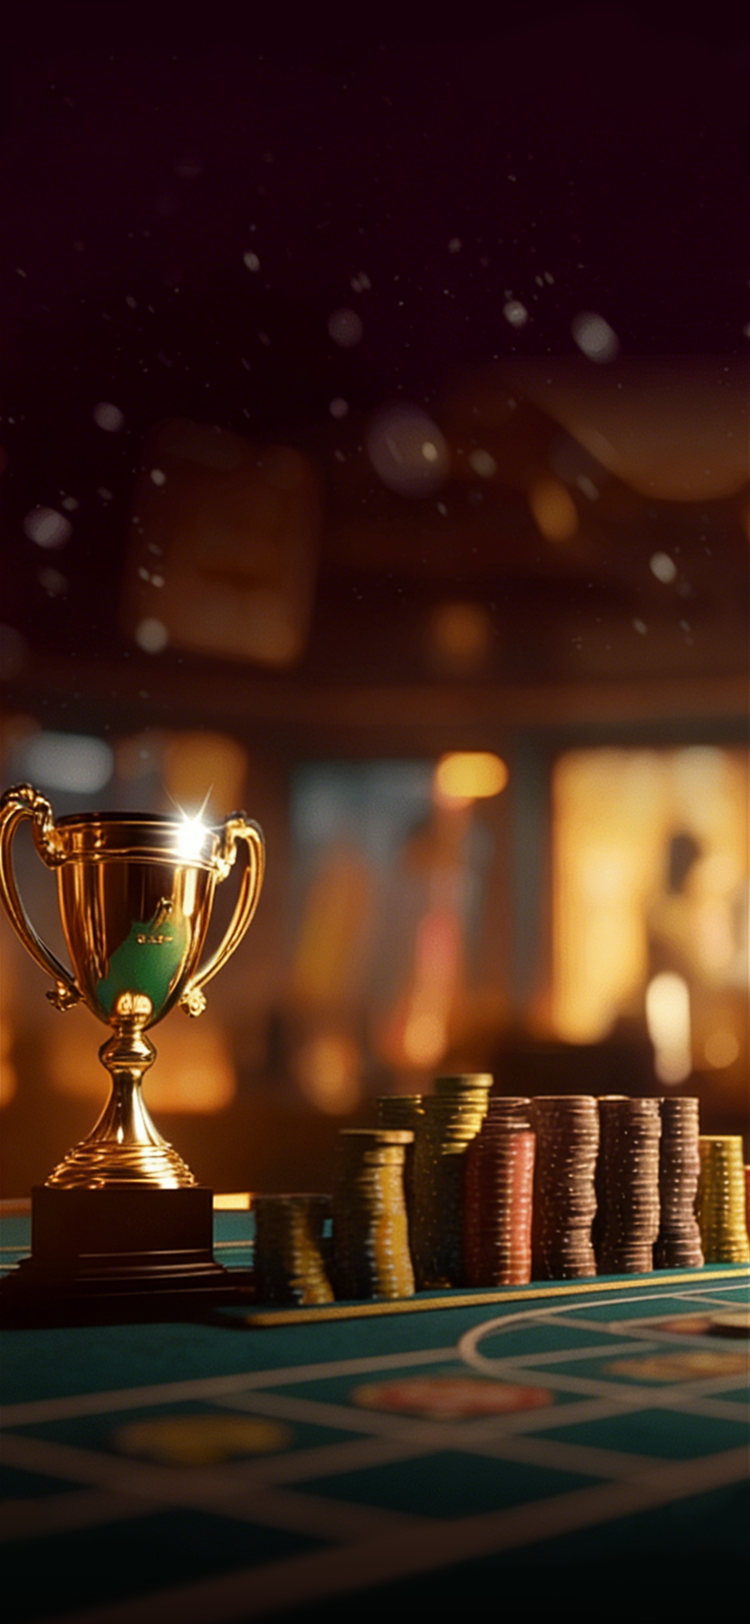
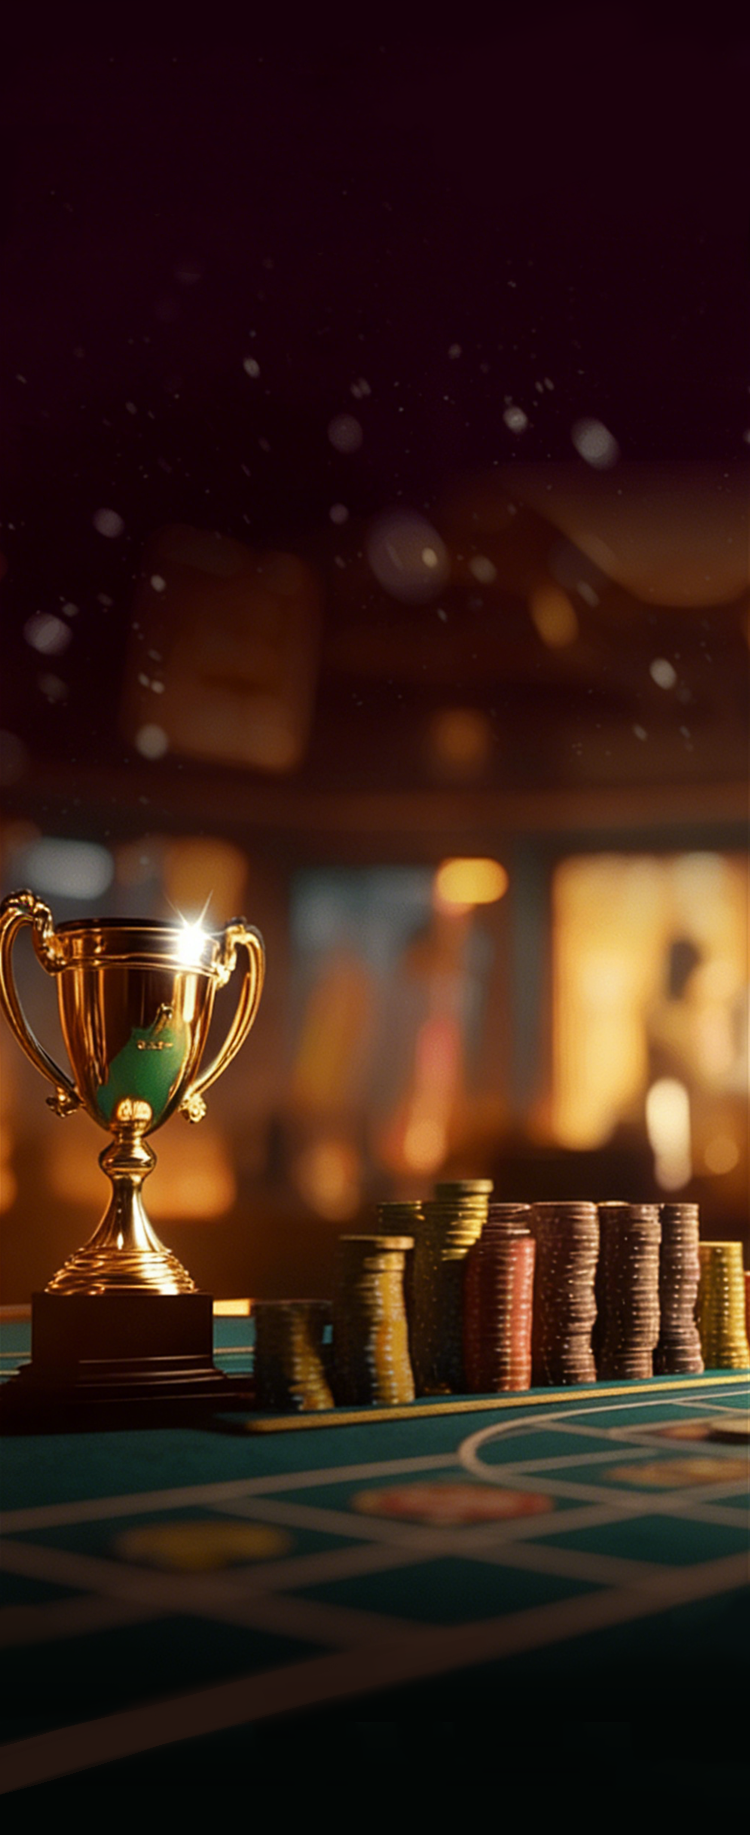
保存代码

diff --git a/assets/Main/Update.js b/assets/Main/Update.js
@@ -25,11 +25,11 @@ cc.Class({
 
         this.or_sprite_pos = cc.v2(326, -160);
         this.btn_facebookLogin_pos = cc.v2(209, -274);
-        this.btn_guestLogin_pos = cc.v2(326, -225);
+        this.btn_guestLogin_pos = cc.v2(0, -225);
 
         this.or_sprite_pos1 = cc.v2(326, -76);
         this.btn_facebookLogin_pos1 = cc.v2(209, -144);
-        this.btn_guestLogin_pos1 = cc.v2(326, -144);
+        this.btn_guestLogin_pos1 = cc.v2(0, -144);
 
         this.protoFiles = [
             "proto/baseproto",
@@ -77,7 +77,7 @@ cc.Class({
 
         CommonFun.getInstance().behaviorReporting(GlobalCfg.BEHAVIOR_TYPE.SHOW_UPDATE_VIEW);
 
-        CommonFun.getInstance().initVerticalAcc();
+        CommonFun.getInstance().initHorizontalAcc();
 
         CommonFun.getInstance().hidProgress();
 
@@ -949,7 +949,7 @@ cc.Class({
 
         if (GlobalCfg.CHANNEL_INFO == "2023" || GlobalCfg.UNUSE_FACEBOOK > 0) {
             this.node_btn_facebookLogin.active = false;
-            this.node_btn_guestLogin.setPosition(326, this.btn_guestLogin_pos1.y);
+            this.node_btn_guestLogin.setPosition(0, this.btn_guestLogin_pos1.y);
             this.node_btn_guestLogin.setContentSize(512, 79);
         };
     },
@@ -968,7 +968,7 @@ cc.Class({
 
         if (GlobalCfg.CHANNEL_INFO == "2023" || GlobalCfg.UNUSE_FACEBOOK > 0) {
             this.node_btn_facebookLogin.active = false;
-            this.node_btn_guestLogin.setPosition(326, this.btn_guestLogin_pos.y);
+            this.node_btn_guestLogin.setPosition(0, this.btn_guestLogin_pos.y);
             this.node_btn_guestLogin.setContentSize(512, 79);
         };
     },

diff --git a/assets/Main/Script/Common/UtilTools/CommonFun.js b/assets/Main/Script/Common/UtilTools/CommonFun.js
@@ -2829,6 +2829,17 @@ let CommonFun = cc.Class({
     },
 
     /**
+     * 初始化横屏次数
+     */
+    initHorizontalAcc: function() {
+        this._horizontalAcc = 0;
+        if (this._curOrientation == EnumOrientation.HORIZONTAL) {
+            this._curOrientation = EnumOrientation.VERTICAL;
+            APPManager.setOrientation('V');
+        };
+    },
+
+    /**
      * 累加竖屏次数，当累加次数大于0，则竖屏
      */
     addVerticalAcc: function() {
